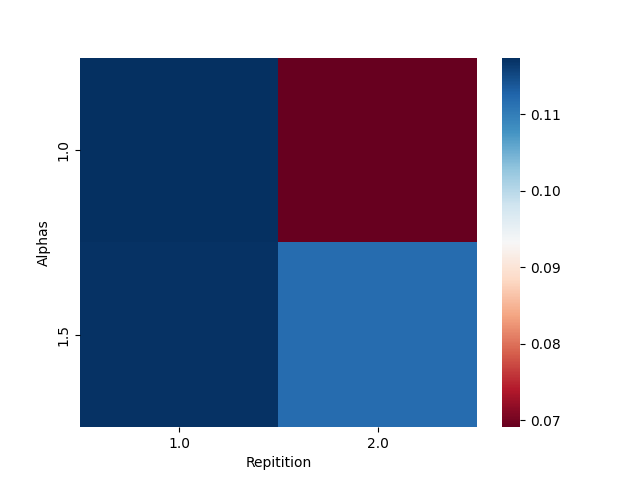
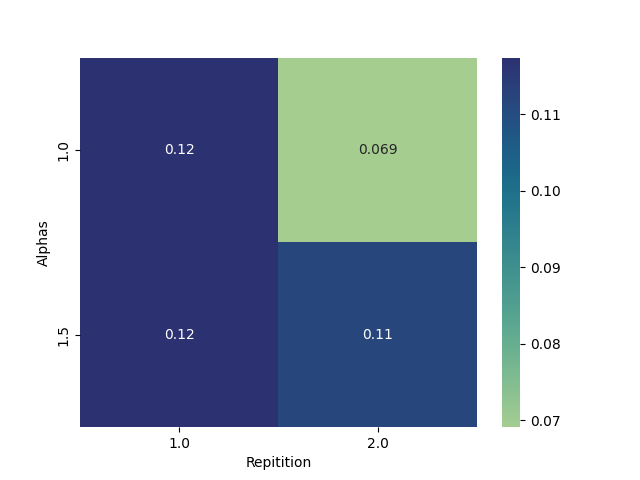
color map change

diff --git a/quactography/visu/optimal_path_odds.py b/quactography/visu/optimal_path_odds.py
@@ -161,7 +161,7 @@ def visu_heatmap(
 
     pivotted = df.pivot(index='Alphas',columns='Repitition',values='Probability of optimal path')
 
-    heatmap = sns.heatmap(pivotted,cmap='RdBu')
+    heatmap = sns.heatmap(pivotted)
     fig = heatmap.get_figure()
     fig.savefig(out_file+"_heatmap")
     print("Visualisation of the heatmap of the optimal path according to alpha and repetition "
